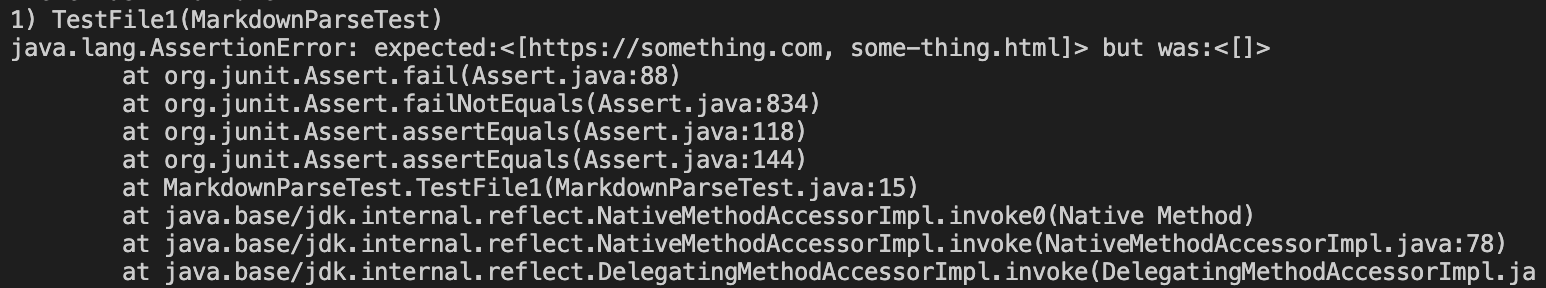
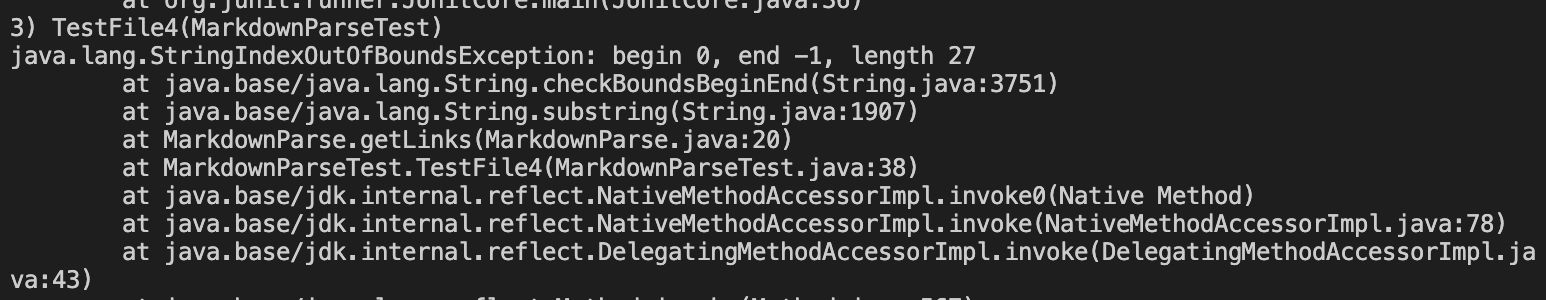
Update Bug #3
Updating a better Bug #3 on Lab Report 2.

Changed region(s): [[0.0, 0.0, 0.8383, 0.6875], [0.0, 0.7188, 0.9935, 1.0]]

diff --git a/lab-report-2-week-4.md b/lab-report-2-week-4.md
@@ -35,8 +35,8 @@ Before the fix, the program would return `page.com` as one of the links even tho
 
 The fix for this bug was through adding a line that tests if the space between `closeBracket` and `openParen` is 1. It would only add the link into the result if that is the case. 
 
-## Bug #3: Incorrect Tester
-The file that caused the bug: [File](https://github.com/jeyiu/markdown-parser/blob/main/MarkdownParseTest.java)
+## Bug #3: Index Out of Bound Error
+The file that caused the bug: [File](https://github.com/jeyiu/markdown-parser/blob/main/test-file4.md)
 
 The Symptom of the Bug: 
 ![Symptom 2](report-2-img-6.png)
@@ -44,6 +44,6 @@ The Symptom of the Bug:
 Changes that fixed the bug: 
 ![Code Diff 2](report-2-img-5.png)
 
-Before the fix, the program would return no output despite the test file containing two hyperlink. This is because the tester for that test file is written incorrectly and it did not find the file it was supposed to test. 
+Before the fix, the program would reach out-of-bound indexes because it would continue to look for the closing bracket when it couldn't find one. This would occue whenever there is a bracket or parenthesis that isn't closed off in the file. 
 
-The fix for this bug was through adding the correct lines that looks for the content of the test file intead of only giving the name of the test file to the program. 
+The fix for this bug was through adding if statements that checks for all four components ([, ], (, )) exist, otherwise it would skip this and move-on to the next hyperlink. 
